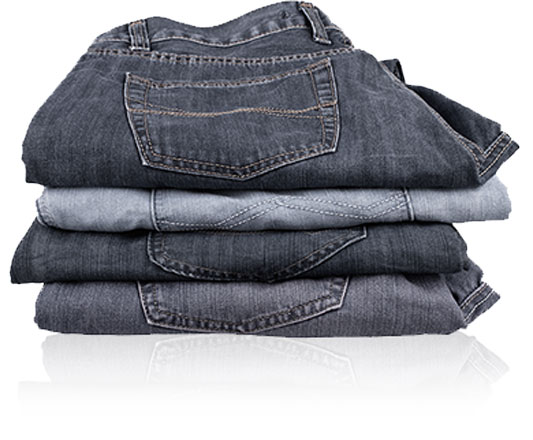
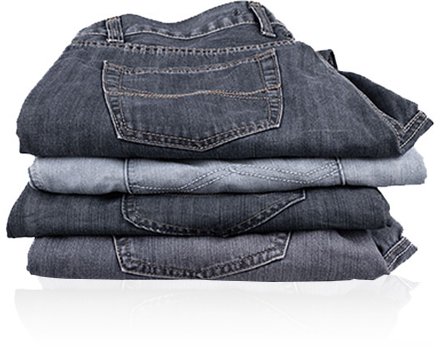
Replaces jeans asset + adjusts size

diff --git a/ui/cards/laundry.reel/laundry.css b/ui/cards/laundry.reel/laundry.css
@@ -1,5 +1,5 @@
 .Laundry .Card-hero {
-    height: 220px;
+    height: 182px;
     margin-bottom: 0;
 }
 
